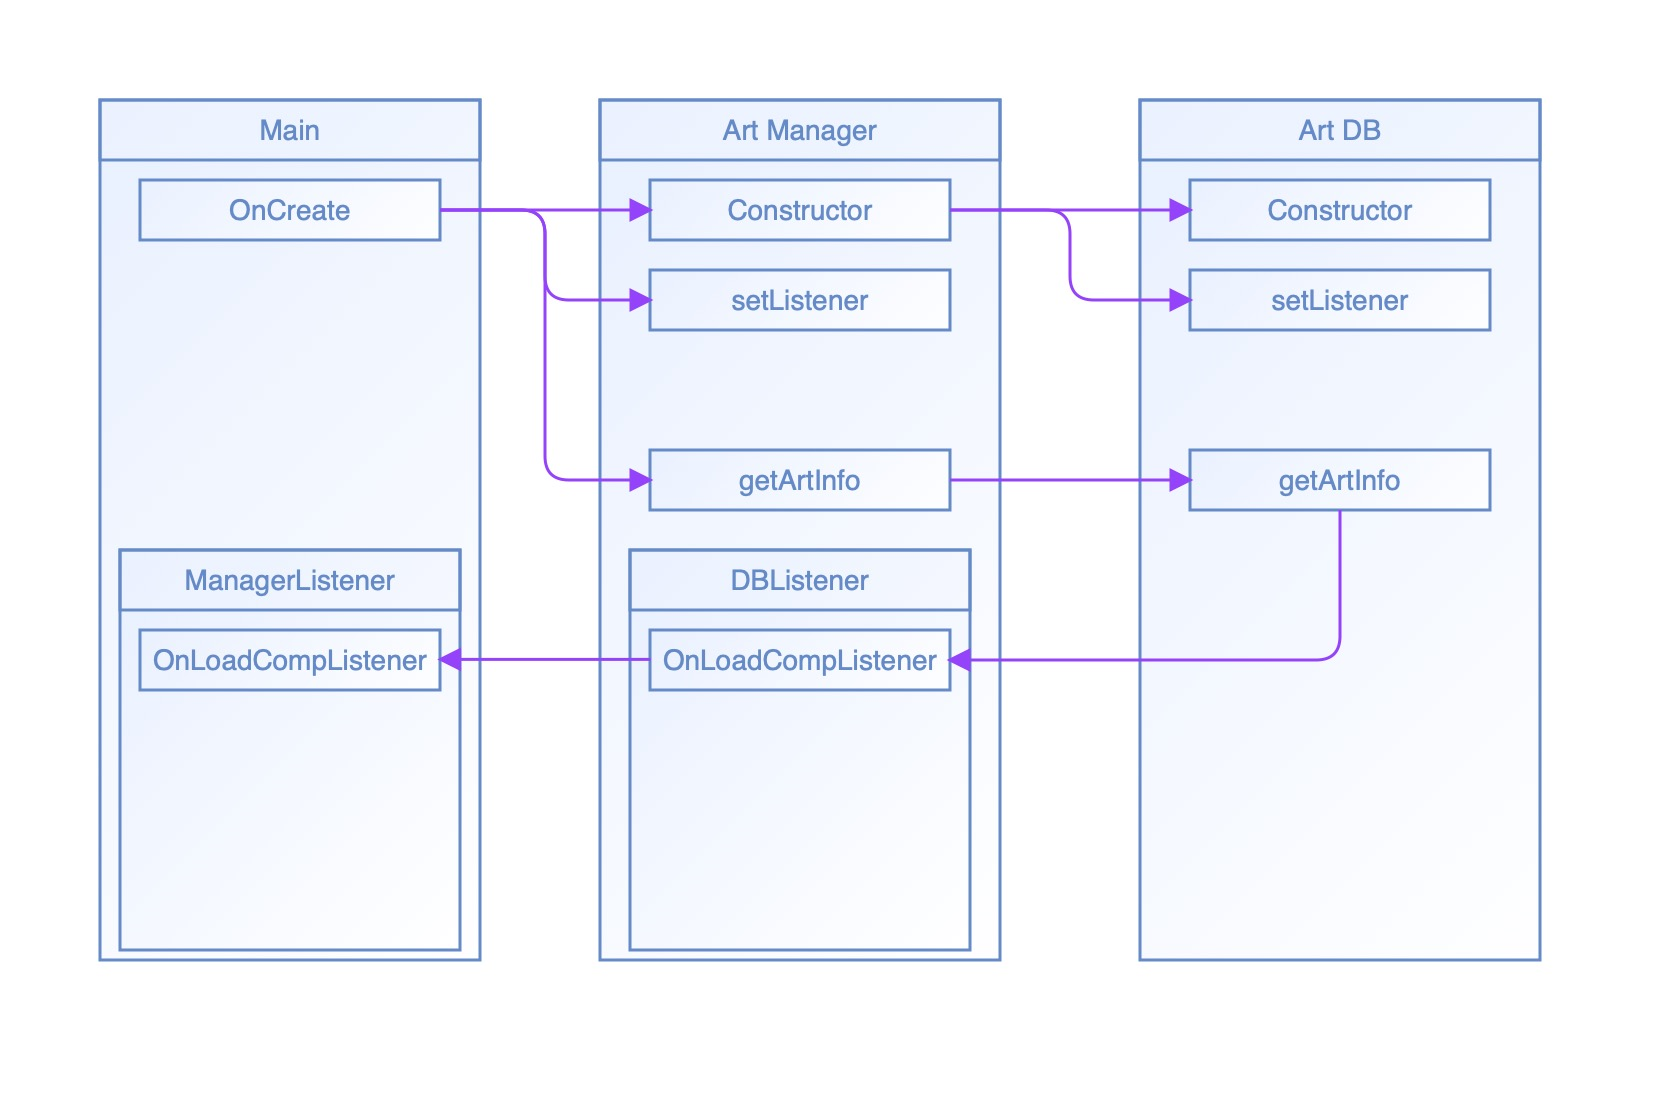
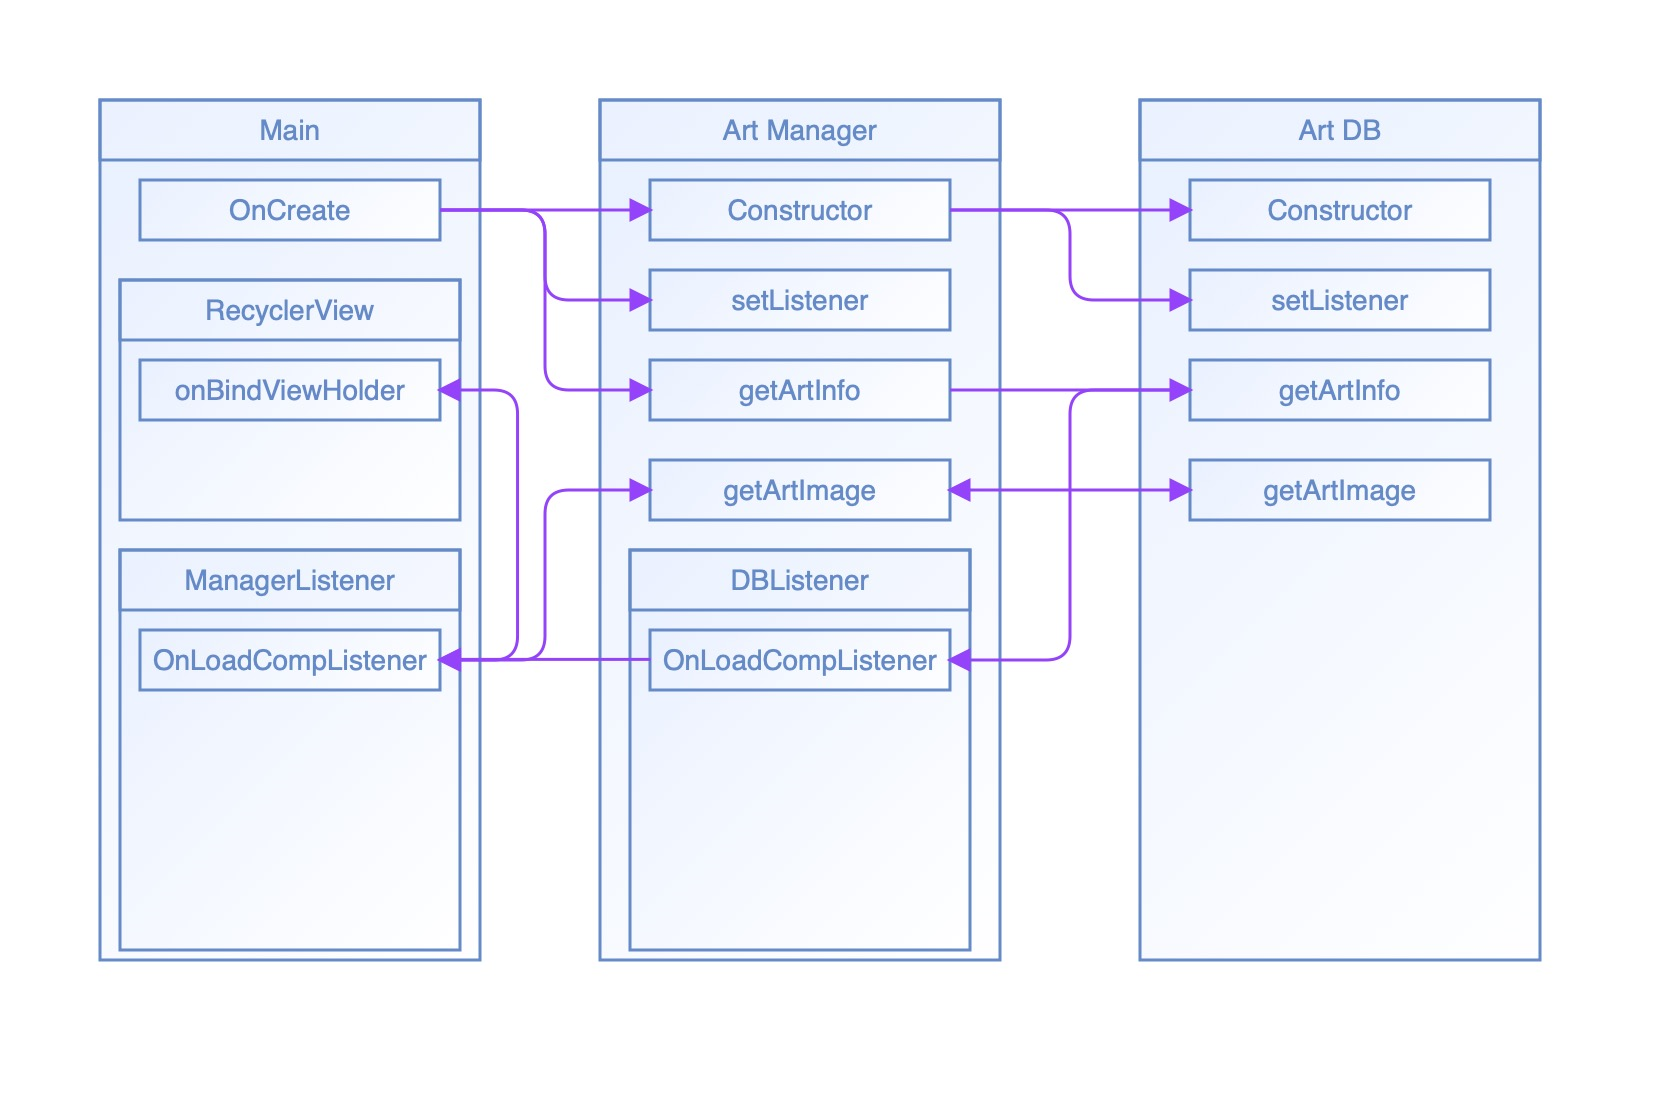
implement get image methods

Changed region(s): [[0.0614, 0.2473, 0.891, 0.5873], [0.0922, 0.4636, 0.2765, 0.4945], [0.6452, 0.5873, 0.7988, 0.6182]]

diff --git a/app/src/main/java/sg/asmallmuseum/presentation/MainActivity.java b/app/src/main/java/sg/asmallmuseum/presentation/MainActivity.java
@@ -42,6 +42,7 @@ public class MainActivity extends AppCompatActivity implements ManagerListener, 
     private List<Artwork> mArtList;
     private ArtLinearViewAdapter adapter;
     private final int REQUEST_CODE = 20180201;
+    private ArtworkManager manager;
 
     private ImageButton mQuick;
     private boolean signedIn;
@@ -53,7 +54,7 @@ public class MainActivity extends AppCompatActivity implements ManagerListener, 
 
         mAuth = FirebaseAuth.getInstance();
 
-        ArtworkManager manager = new ArtworkManager();
+        manager = new ArtworkManager();
         manager.setListener(this);
         requestPermission();
 
@@ -89,7 +90,7 @@ public class MainActivity extends AppCompatActivity implements ManagerListener, 
     @Override
     public void onLoadCompleteListener(List<Artwork> artworks){
         mArtList = artworks;
-        adapter = new ArtLinearViewAdapter(mArtList);
+        adapter = new ArtLinearViewAdapter(mArtList,manager);
         adapter.setOnClickListener(this);
         initRecentView();
     }
@@ -149,59 +150,5 @@ public class MainActivity extends AppCompatActivity implements ManagerListener, 
     }
     /***End***/
 
-    /***Google Sign-Up methods***/
-    /***Google Sign-in Test***/
-        /*UserManager manager = new UserManager("Google");
-
-        mQuick = (ImageButton)findViewById(R.id.quick_menu_button);
-        mQuick.setOnClickListener(new View.OnClickListener() {
-            @Override
-            public void onClick(View view) {
-                Intent intent = manager.signUPWithGoogle(view.getContext(), mAuth);
-                startActivity(intent);
-            }
-        });*/
-    /***End***/
-
-    @Override
-    protected void onActivityResult(int requestCode, int resultCode, @Nullable Intent data) {
-        super.onActivityResult(requestCode, resultCode, data);
-        if (requestCode == REQUEST_CODE){
-            Task<GoogleSignInAccount> task = GoogleSignIn.getSignedInAccountFromIntent(data);
-            try{
-                GoogleSignInAccount account = task.getResult(ApiException.class);
-                //account.
-            }
-            catch (ApiException e){
-
-            }
-        }
-    }
-    /*
-     * signUPWithGoogle: get a google sign-up page
-     * firebaseSignWithGoogle: Authentication with Google*/
-    public Intent signUPWithGoogle(Context context, FirebaseAuth mAuth){
-        GoogleSignInOptions gso = new GoogleSignInOptions.Builder(GoogleSignInOptions.DEFAULT_SIGN_IN)
-                .requestIdToken(context.getString(R.string.default_web_client_id)).requestEmail().build();
-        GoogleSignInClient mClient = GoogleSignIn.getClient(context, gso);
-        Intent intent = mClient.getSignInIntent();
-        return intent;
-    }
-
-    private void firebaseSignInWithGoogle(String idToken, FirebaseAuth mAuth, Context context){
-        AuthCredential mAuthCredential = GoogleAuthProvider.getCredential(idToken, null);
-        mAuth.signInWithCredential(mAuthCredential).addOnCompleteListener(new OnCompleteListener<AuthResult>() {
-            @Override
-            public void onComplete(@NonNull Task<AuthResult> task) {
-                if (task.isSuccessful()){
-                    Log.d("LOGIN: ","LOGIN SUCCESS!");
-                }
-                else {
-                    Log.w("LOGIN: ", "FAIL TO LOGIN");
-                }
-            }
-        });
-    }
-    /***End***/
 
 }

diff --git a/app/src/main/java/sg/asmallmuseum/presentation/ArtLinearViewAdapter.java b/app/src/main/java/sg/asmallmuseum/presentation/ArtLinearViewAdapter.java
@@ -1,11 +1,14 @@
 package sg.asmallmuseum.presentation;
 
 import android.content.Intent;
+import android.util.Log;
 import android.view.LayoutInflater;
 import android.view.View;
 import android.view.ViewGroup;
 import android.widget.ImageView;
 import android.widget.TextView;
+
+import com.google.firebase.storage.StorageReference;
 
 import java.util.List;
 
@@ -13,13 +16,16 @@ import androidx.annotation.NonNull;
 import androidx.recyclerview.widget.RecyclerView;
 import sg.asmallmuseum.Domain.Artwork;
 import sg.asmallmuseum.R;
+import sg.asmallmuseum.logic.ArtworkManager;
 
 public class ArtLinearViewAdapter extends RecyclerView.Adapter<ArtViewHolder> {
     private List<Artwork> mArtList;
     private RecyclerViewOnClickListener mListener;
+    private ArtworkManager manager;
 
-    public ArtLinearViewAdapter(List<Artwork> mArtList){
+    public ArtLinearViewAdapter(List<Artwork> mArtList, ArtworkManager manager){
         this.mArtList = mArtList;
+        this.manager = manager;
     }
 
     @NonNull
@@ -31,7 +37,9 @@ public class ArtLinearViewAdapter extends RecyclerView.Adapter<ArtViewHolder> {
 
     @Override
     public void onBindViewHolder(@NonNull ArtViewHolder holder, int position) {
-        holder.setCard(mArtList.get(position));
+
+        StorageReference ref = manager.getArtImages(mArtList.get(position).getaType(), mArtList.get(position).getaFileLoc());
+        holder.setCard(mArtList.get(position), ref);
 
         if (mListener != null){
             holder.itemView.setOnClickListener(new View.OnClickListener() {

diff --git a/app/src/main/java/sg/asmallmuseum/presentation/ArtGridViewAdapter.java b/app/src/main/java/sg/asmallmuseum/presentation/ArtGridViewAdapter.java
@@ -6,19 +6,24 @@ import android.view.ViewGroup;
 import android.widget.LinearLayout;
 import android.widget.TextView;
 
+import com.google.firebase.storage.StorageReference;
+
 import java.util.List;
 
 import androidx.annotation.NonNull;
 import androidx.recyclerview.widget.RecyclerView;
 import sg.asmallmuseum.Domain.Artwork;
 import sg.asmallmuseum.R;
+import sg.asmallmuseum.logic.ArtworkManager;
 
 public class ArtGridViewAdapter extends RecyclerView.Adapter<ArtViewHolder> {
     private List<Artwork> mArtList;
     private RecyclerViewOnClickListener mListener;
+    private ArtworkManager manager;
 
-    public ArtGridViewAdapter(List<Artwork> mArtwork){
+    public ArtGridViewAdapter(List<Artwork> mArtwork, ArtworkManager manager){
         this.mArtList = mArtwork;
+        this.manager = manager;
     }
 
     @NonNull
@@ -30,7 +35,8 @@ public class ArtGridViewAdapter extends RecyclerView.Adapter<ArtViewHolder> {
 
     @Override
     public void onBindViewHolder(@NonNull ArtViewHolder holder, int position) {
-        holder.setCard(mArtList.get(position));
+        StorageReference ref = manager.getArtImages(mArtList.get(position).getaType(), mArtList.get(position).getaFileLoc());
+        holder.setCard(mArtList.get(position), ref);
 
         Artwork artwork = mArtList.get(position);
         if (mListener != null){

diff --git a/app/src/main/java/sg/asmallmuseum/presentation/ArtViewHolder.java b/app/src/main/java/sg/asmallmuseum/presentation/ArtViewHolder.java
@@ -1,7 +1,12 @@
 package sg.asmallmuseum.presentation;
 
+import android.media.Image;
 import android.view.View;
+import android.widget.ImageView;
 import android.widget.TextView;
+
+import com.bumptech.glide.Glide;
+import com.google.firebase.storage.StorageReference;
 
 import androidx.annotation.NonNull;
 import androidx.recyclerview.widget.RecyclerView;
@@ -11,14 +16,17 @@ import sg.asmallmuseum.R;
 public class ArtViewHolder extends RecyclerView.ViewHolder {
     private TextView mTitle;
     private TextView mAuthor;
+    private ImageView mImage;
 
     public ArtViewHolder(@NonNull View itemView) {
         super(itemView);
+        mImage = (ImageView) itemView.findViewById(R.id.card_image);
         mTitle = (TextView) itemView.findViewById(R.id.card_title);
         mAuthor = (TextView) itemView.findViewById(R.id.card_author);
     }
 
-    public void setCard(Artwork artwork){
+    public void setCard(Artwork artwork, StorageReference ref){
+        Glide.with(itemView.getContext()).load(ref).into(mImage);
         mTitle.setText(artwork.getaTitle());
         mAuthor.setText(artwork.getaAuthor());
     }

diff --git a/app/src/main/java/sg/asmallmuseum/presentation/ArtListActivity.java b/app/src/main/java/sg/asmallmuseum/presentation/ArtListActivity.java
@@ -6,6 +6,7 @@ import androidx.recyclerview.widget.RecyclerView;
 import sg.asmallmuseum.Domain.Artwork;
 import sg.asmallmuseum.Domain.Picture;
 import sg.asmallmuseum.R;
+import sg.asmallmuseum.logic.ArtworkManager;
 
 import android.content.Intent;
 import android.os.Bundle;
@@ -31,7 +32,7 @@ public class ArtListActivity extends AppCompatActivity implements RecyclerViewOn
 
         mAuth = FirebaseAuth.getInstance();
         mArtList = new ArrayList<>();
-        adapter = new ArtGridViewAdapter(mArtList);
+        adapter = new ArtGridViewAdapter(mArtList, new ArtworkManager());
 
         setData();
         adapter.setOnClickListener(this);

diff --git a/app/src/main/java/sg/asmallmuseum/persistence/ArtworkDBInterface.java b/app/src/main/java/sg/asmallmuseum/persistence/ArtworkDBInterface.java
@@ -15,4 +15,5 @@ public interface ArtworkDBInterface {
     StorageReference uploadFile(String path,String id) throws FileNotFoundException;
     void setOnSuccessListener(DBListener DBListener);
     void getArtInfo(String type, String genre);
+    StorageReference getArtImage(String type, String loc);
 }

diff --git a/app/src/main/java/sg/asmallmuseum/persistence/ArtworkDB.java b/app/src/main/java/sg/asmallmuseum/persistence/ArtworkDB.java
@@ -115,8 +115,9 @@ public class ArtworkDB implements ArtworkDBInterface {
         });
     }
 
-    public void getArtImage(String type){
-
+    @Override
+    public StorageReference getArtImage(String type, String loc){
+        return storage.getReference().child(loc);
     }
     /***End***/
 }

diff --git a/app/src/main/java/sg/asmallmuseum/logic/ArtworkManager.java b/app/src/main/java/sg/asmallmuseum/logic/ArtworkManager.java
@@ -80,8 +80,8 @@ public class ArtworkManager implements DBListener {
         db.getArtInfo(type, genre);
     }
 
-    public void getArtImages(){
-
+    public StorageReference getArtImages(String type, String loc){
+        return db.getArtImage(type, loc);
     }
     /***End***/
 

diff --git a/app/src/main/java/sg/asmallmuseum/Domain/Artwork.java b/app/src/main/java/sg/asmallmuseum/Domain/Artwork.java
@@ -87,7 +87,7 @@ public abstract class Artwork {
         return aFileLoc;
     }
 
-    public void setaFileLoc(String aFileName) {
+    public void setaFileLoc(String aFileLoc) {
         this.aFileLoc = aFileLoc;
     }
 }

diff --git a/app/src/main/java/sg/asmallmuseum/logic/DBListener.java b/app/src/main/java/sg/asmallmuseum/logic/DBListener.java
@@ -9,4 +9,5 @@ import sg.asmallmuseum.Domain.Artwork;
 
 public interface DBListener {
     void onFileLoadCompleteListener(List<Artwork> list);
+
 }
